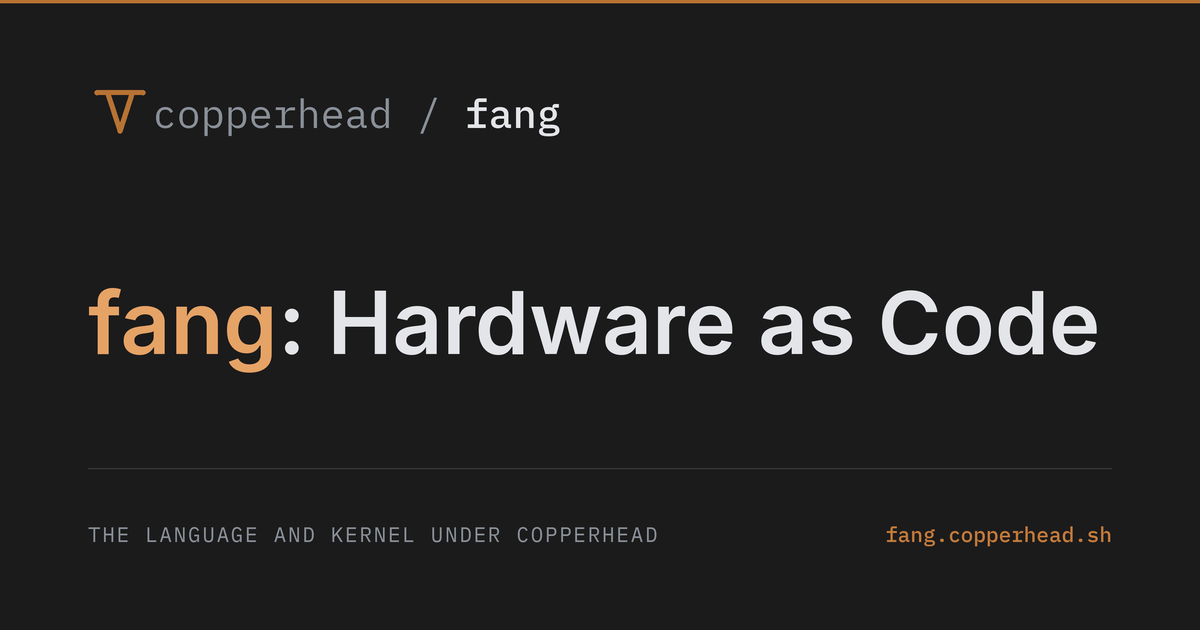
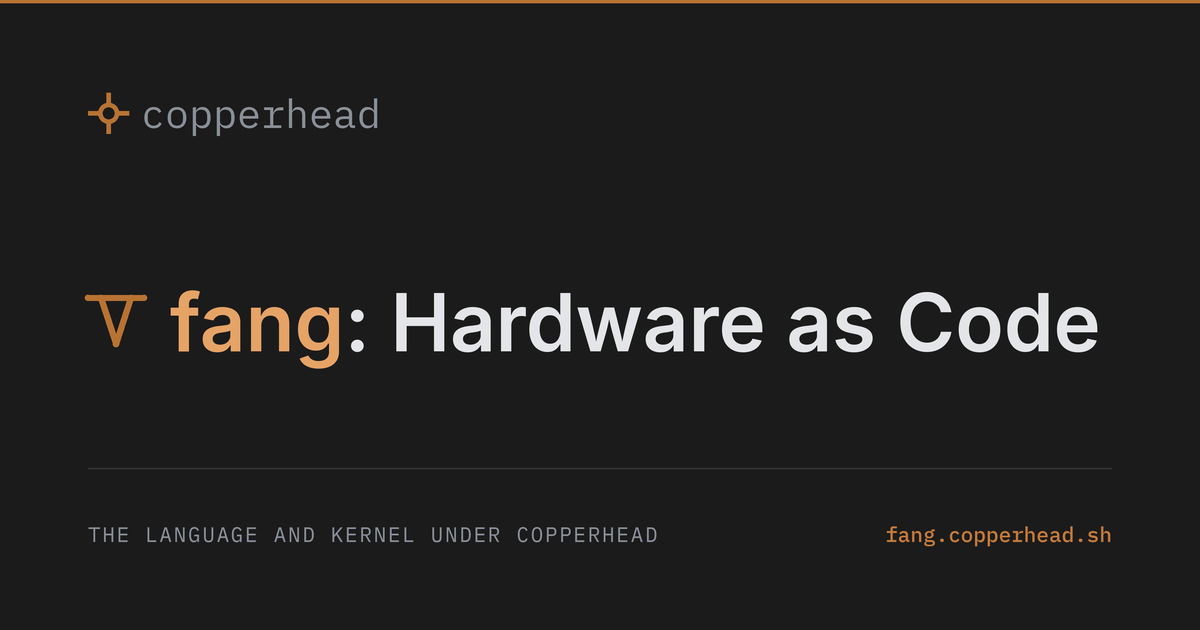
Give each brand its own mark, and fang's the line it belongs to
The lockup was fang's mark standing in front of both names, and the headline
carried no mark at all. Now copperhead's via with four traces leaving it sits
alone at the top with its name, and fang's trace with one thing hanging from it
leads the line that is fang's. Each brand named once, each behind its own mark.

Both are drawn on the same 32-unit grid at the same 2.25 stroke in the same
copper, which is the whole reason the pair reads as one system rather than two
logos, and each is measured by its path span of 20.5 units rather than its ink:
fang's round caps overshoot by a stroke radius at each end, and letting that
into the measurement would set the two marks to different widths — the one thing
a shared grid exists to prevent.

The headline's mark is tied to its point size rather than fixed in pixels, and
`fit` reserves room for it before choosing that size, so the mark and the type
stay in proportion whatever length the line turns out to be.

copperhead's mark is not copied into site/brand/. make.py draws it from the
geometry in packages/starlight-theme/assets/mark.svg, upstream's own copy, which
stays the only one: fang is a sub-brand, and a second copy of the parent's mark
here is a second copy that can drift from it.

Changed region(s): [[0.0617, 0.4524, 0.925, 0.6032], [0.0617, 0.1206, 0.3392, 0.2111], [0.37, 0.1508, 0.4625, 0.2111]]

diff --git a/site/index.html b/site/index.html
@@ -30,7 +30,7 @@
 <meta property="og:image:type" content="image/png">
 <meta property="og:image:width" content="1200">
 <meta property="og:image:height" content="630">
-<meta property="og:image:alt" content="fang: Hardware as Code — the line set under the copperhead / fang lockup, on fang's dark ground.">
+<meta property="og:image:alt" content="fang: Hardware as Code — fang's mark leading the line, with copperhead's mark and name above it, on fang's dark ground.">
 <!-- Every crawler worth the name falls back to the og:* pair above, so
      these are the same values said twice. They are here because the ones
      that do not fall back render a bare title instead. -->
@@ -38,7 +38,7 @@
 <meta name="twitter:title" content="fang: Hardware as Code">
 <meta name="twitter:description" content="Hardware as Code. A Python-embedded language for circuit boards, and a kernel that decides what is true about the design.">
 <meta name="twitter:image" content="https://fang.copperhead.sh/brand/og.png">
-<meta name="twitter:image:alt" content="fang: Hardware as Code — the line set under the copperhead / fang lockup, on fang's dark ground.">
+<meta name="twitter:image:alt" content="fang: Hardware as Code — fang's mark leading the line, with copperhead's mark and name above it, on fang's dark ground.">
 
 <meta name="color-scheme" content="dark light">
 <meta name="theme-color" content="#1b1b1c" media="(prefers-color-scheme: dark)">

diff --git a/site/brand/make.py b/site/brand/make.py
@@ -54,6 +54,7 @@ MARGIN = 88
 # so it is not accented with it.
 HEAD = (("fang", ACCENT_TEXT), (": Hardware as Code", TEXT))
 HEAD_SIZE = 92        # a ceiling, not a setting — `fit` takes it down to fit
+HEAD_MARK, HEAD_GAP = 0.70, 26   # the mark's span as a fraction of the size
 FOOT_LABEL = "THE LANGUAGE AND KERNEL UNDER COPPERHEAD"
 DOMAIN = "fang.copperhead.sh"
 
@@ -92,12 +93,19 @@ def tracked(draw, xy, text, font, fill, tracking=0.0):
     return x
 
 
-def fit(draw, text, ceiling, width, weight=600):
-    """Inter at the largest whole point size at or under `ceiling` that fits."""
+def fit(draw, text, ceiling, width, weight=600, mark=0.0, gap=0):
+    """Inter at the largest whole point size at or under `ceiling` that fits.
+
+    `mark` reserves a mark ahead of the text whose 20.5-unit span is that
+    fraction of the point size, `gap` after it. Tying the mark to the size
+    rather than fixing it in px means the two stay in proportion whatever
+    length the line turns out to be.
+    """
     for size in range(ceiling, 0, -1):
         font = sized(INTER, size * SS, weight=weight)
-        if draw.textlength(text, font=font) <= width:
-            return font
+        reserved = (mark * size * SS + gap) if mark else 0
+        if reserved + draw.textlength(text, font=font) <= width:
+            return font, size
     raise SystemExit(f"{text!r} does not fit in {width / SS:.0f} px at any size")
 
 
@@ -119,6 +127,33 @@ def mark(draw, x, y, grid):
     width = 2.25 * u
     stroke(draw, [p(5.75, 7.5), p(26.25, 7.5)], width, COPPER)
     stroke(draw, [p(10.5, 7.5), p(16, 24.5), p(21.5, 7.5)], width, COPPER)
+
+
+def via_mark(draw, x, y, grid):
+    """copperhead's own mark: a via, with four traces leaving it.
+
+    The geometry is packages/starlight-theme/assets/mark.svg — the same 32-unit
+    grid as fang's and the same 2.25 stroke, which is what makes the two read as
+    one system side by side. Butt caps, not round: these traces run into the via
+    rather than ending in the open, and fang's round caps are its own.
+    """
+    u = grid / 32
+
+    def p(ux, uy):
+        return (x + ux * u, y + uy * u)
+
+    width = max(1, int(round(2.25 * u)))
+    radius = 5.25 * u
+    cx, cy = p(16, 16)
+    draw.ellipse((cx - radius, cy - radius, cx + radius, cy + radius),
+                 outline=COPPER, width=width)
+    for a, b in (
+        ((16, 5.75), (16, 10.75)),      # the four traces, from the via outward
+        ((16, 21.25), (16, 26.25)),
+        ((5.75, 16), (10.75, 16)),
+        ((21.25, 16), (26.25, 16)),
+    ):
+        draw.line([p(*a), p(*b)], fill=COPPER, width=width)
 
 
 # The mark, exactly as `mark.svg` draws it.
@@ -202,16 +237,23 @@ def card() -> None:
     draw.rectangle((0, 0, W * SS, 3 * SS), fill=COPPER)
 
     # ── Lockup ───────────────────────────────────────────────────────────
-    # The mark stands 1.37 cap-heights tall beside the wordmark, the same
-    # proportion the page header sets it at, and is centred on the cap band.
-    grid, lockup_y = 72, MARGIN + 40
+    # The parent brand, on its own: copperhead's via with four traces leaving
+    # it, and its name. fang is not named up here any more — it leads the line
+    # below, where the mark that belongs to it goes too.
+    plex_light = sized(PLEX_400, 40 * SS)
+    lockup_baseline = (MARGIN + 40) * SS
+    cap = -draw.textbbox((0, 0), "copperhead", font=plex_light, anchor="ls")[1]
+
+    grid = 64 * SS
     u = grid / 32
-    mark(draw, px(MARGIN - 4), px(lockup_y - 14 - 9.5 * u - 7.5 * u), px(grid))
-    plex_lockup = sized(PLEX_500, 40 * SS)
-    plex_lockup_light = sized(PLEX_400, 40 * SS)
-    x = px(MARGIN + 26 * u - 4 + 10)
-    x = tracked(draw, (x, px(lockup_y)), "copperhead / ", plex_lockup_light, DIM)
-    tracked(draw, (x, px(lockup_y)), "fang", plex_lockup, TEXT)
+    via_mark(draw, MARGIN * SS - 5.75 * u, lockup_baseline - cap / 2 - 16 * u, grid)
+    tracked(
+        draw,
+        (MARGIN * SS + 20.5 * u + 12 * SS, lockup_baseline),
+        "copperhead",
+        plex_light,
+        DIM,
+    )
 
     # ── Headline ─────────────────────────────────────────────────────────
     # Set as large as the margins allow, up to the ceiling: the line is one
@@ -220,12 +262,21 @@ def card() -> None:
     # not its text box — the descender and the leading are not ink, and
     # centring on those would ride the whole line high.
     whole = "".join(word for word, _ in HEAD)
-    head = fit(draw, whole, HEAD_SIZE, (W - 2 * MARGIN) * SS)
     rule = px(H - MARGIN - 74)
-    cap = -draw.textbbox((0, 0), whole, font=head, anchor="ls")[1]
-    baseline = (px(lockup_y + 46) + rule + cap) / 2
+    head, size = fit(
+        draw, whole, HEAD_SIZE, (W - 2 * MARGIN) * SS, mark=HEAD_MARK, gap=HEAD_GAP * SS
+    )
+    head_cap = -draw.textbbox((0, 0), whole, font=head, anchor="ls")[1]
+    baseline = (lockup_baseline + 46 * SS + rule + head_cap) / 2
 
-    x = px(MARGIN)
+    # fang's mark leads its own line, set to the cap height beside it and
+    # centred on the same band, so it reads as the first word rather than as a
+    # bullet sitting next to one.
+    head_grid = HEAD_MARK * size * SS / 20.5 * 32
+    hu = head_grid / 32
+    x = MARGIN * SS
+    mark(draw, x - 5.75 * hu, baseline - head_cap / 2 - 16 * hu, head_grid)
+    x += 20.5 * hu + HEAD_GAP * SS
     for word, colour in HEAD:
         draw.text((x, baseline), word, font=head, fill=colour, anchor="ls")
         x += draw.textlength(word, font=head)

diff --git a/site/BRAND.md b/site/BRAND.md
@@ -32,6 +32,15 @@ leaving it; fang's is a single trace with one thing hanging from it.
 | [`brand/mark-currentcolor.svg`](brand/mark-currentcolor.svg) | Inherits `currentColor`. For inline use where the mark must take the surrounding text colour. |
 | [`brand/favicon.svg`](brand/favicon.svg) | 32×32 on the dark chip, matching copperhead's favicon construction. |
 | [`brand/lockup.svg`](brand/lockup.svg) | Horizontal mark plus wordmark, the wordmark still live text. For anywhere the webfont loads. |
+
+The card is the one place both marks appear together — copperhead's above,
+fang's on the line below it. Both are drawn on the same 32-unit grid at the same
+2.25 stroke in the same copper, which is what makes the pair one system rather
+than two logos. copperhead's is not duplicated into this folder: `make.py` draws
+it from the geometry in
+[`packages/starlight-theme/assets/mark.svg`](../packages/starlight-theme/assets/mark.svg),
+which is upstream's copy and stays the only one.
+
 | [`brand/lockup-outlined.svg`](brand/lockup-outlined.svg) | The same lockup with the wordmark outlined, ink `#e3e5e8`. For the dark ground where the webfont does not load — a README, chiefly. |
 | [`brand/lockup-outlined-light.svg`](brand/lockup-outlined-light.svg) | The outlined lockup again, ink `#2b2d32`, for the light ground. Pair the two in a `<picture>` so the README follows the reader's theme. |
 | [`brand/og.png`](brand/og.png) | 1200×630 social card. What a shared link to the site renders as. Copied to `docs/public/brand/` too, by `make.py`. |
@@ -160,8 +169,10 @@ card — Starlight gives each page its own `og:title` and `og:description` but n
 image, so `astro.config.mjs` supplies one for the whole site.
 
 The card is three registers, top to bottom: who this is, what it is, and where
-it lives. The `copperhead / fang` lockup, then **fang: Hardware as Code** set as
-large as the margins allow, then the relationship and the domain along the foot.
+it lives. copperhead's mark and name alone at the top, then **fang: Hardware as
+Code** set as large as the margins allow with fang's own mark leading it, then
+the relationship and the domain along the foot. Each brand is named once, each
+behind its own mark, and fang's sits on the line that is fang's.
 It carries no second sentence — at thumbnail width one idea is the most that
 survives.
 
